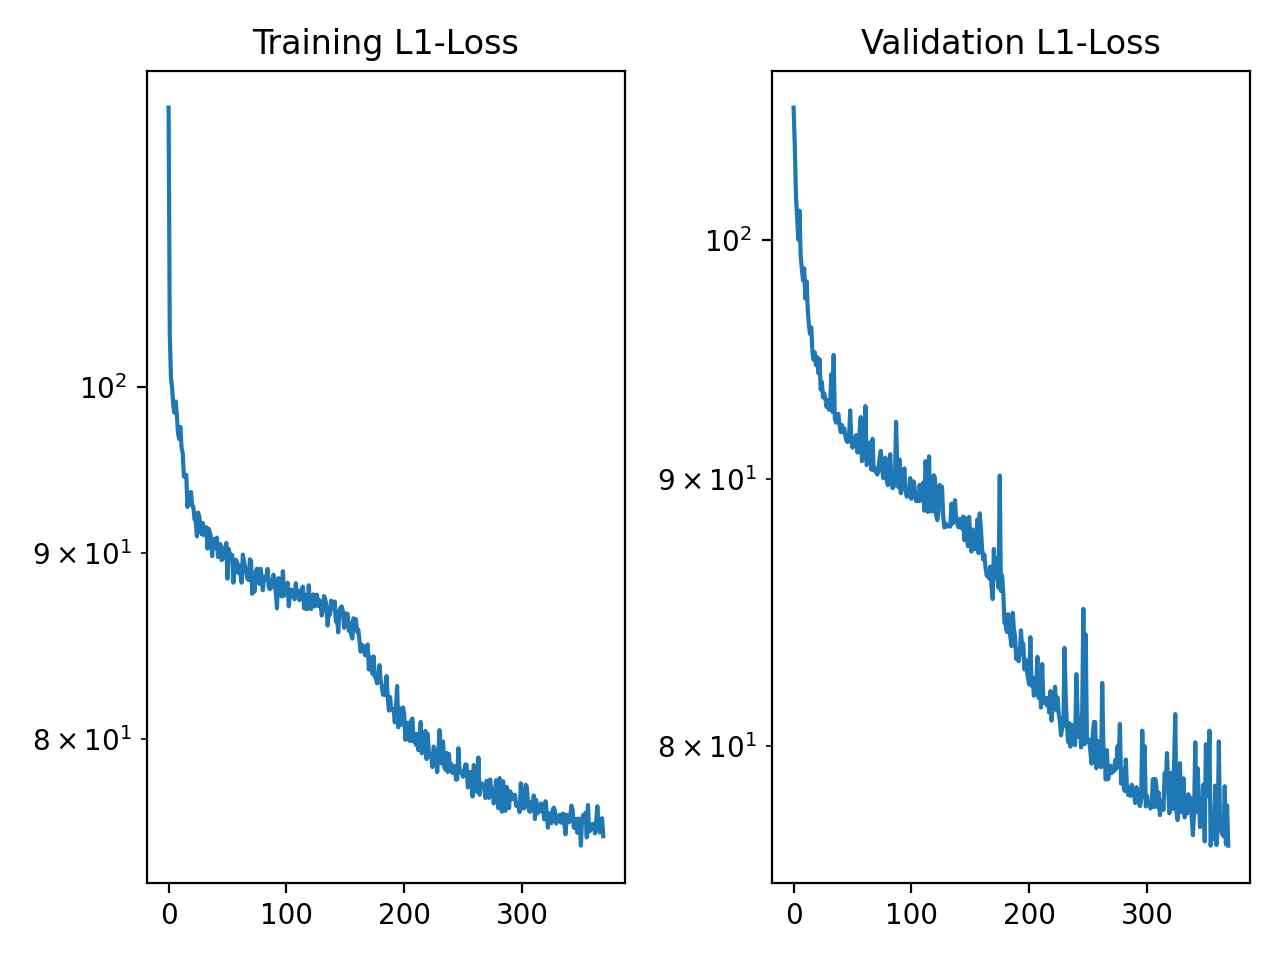
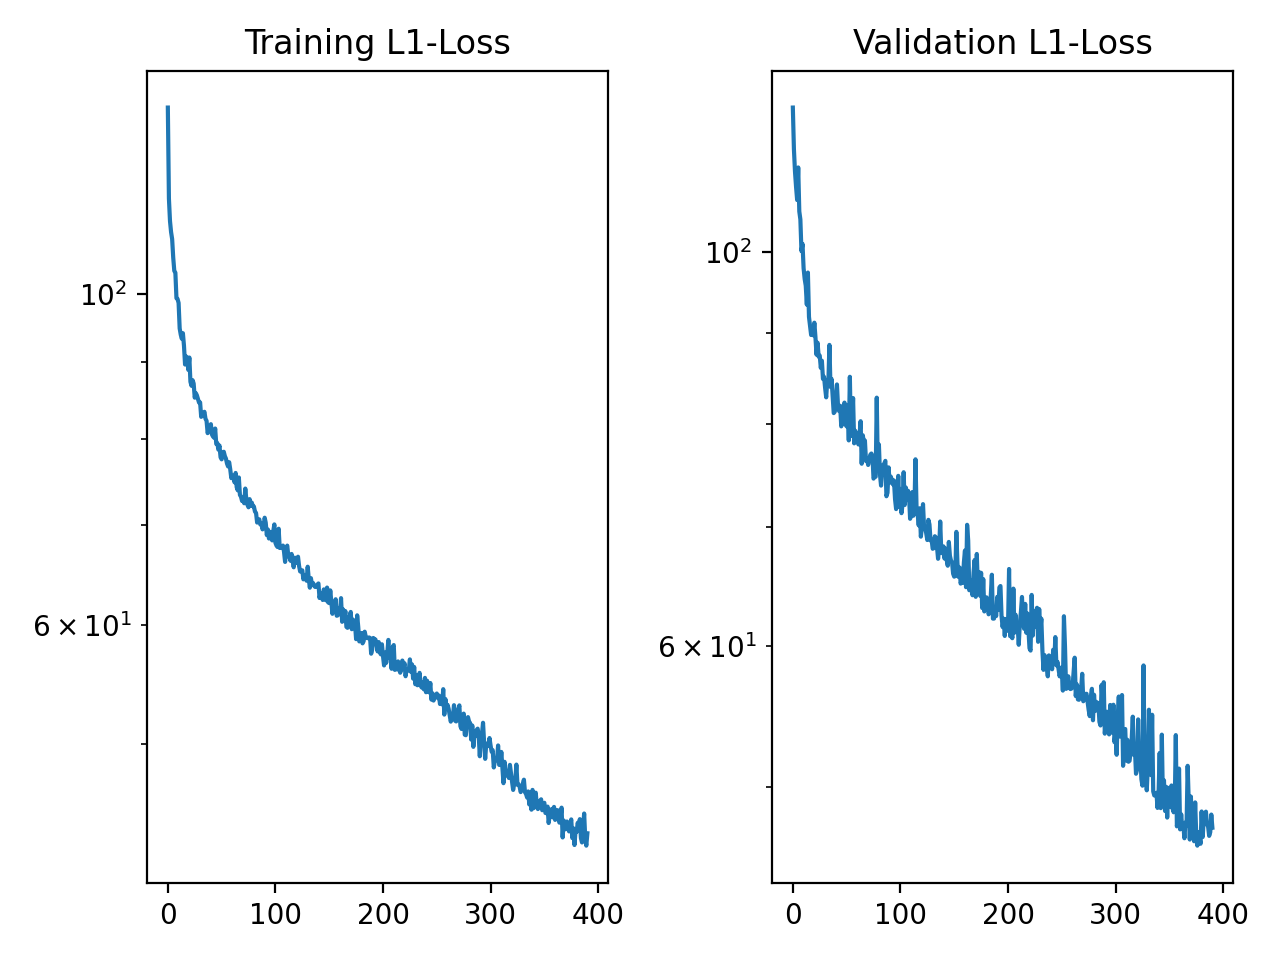
bigger gnn model trained

diff --git a/run_gnn.py b/run_gnn.py
@@ -13,13 +13,18 @@ from torch.optim import Adam
 from torchinfo import summary
 
 from torch_geometric.nn import GCN, GCNConv, Sequential, GATConv
+from torch_geometric.profile import get_model_size, count_parameters
 
 class GCNModel(nn.Module):
     def __init__(self, num_node_features=4):
         super().__init__()
-        self.conv1 = GCNConv(num_node_features, 128) 
-        self.conv2 = GCNConv(128, 64)
-        self.conv3 = GCNConv(64, 1)
+        self.conv1 = GCNConv(num_node_features, 512) 
+        self.conv2 = GCNConv(512, 256)
+        self.conv3 = GCNConv(256, 256)
+        self.conv4 = GCNConv(256, 256)
+        self.conv5 = GCNConv(256, 256)
+        self.conv6 = GCNConv(256, 256)
+        self.conv7 = GCNConv(256, 1)
 
     def forward(self, data):
         x, edge_index, edge_weight = data.x, data.edge_index, data.edge_weight
@@ -29,6 +34,14 @@ class GCNModel(nn.Module):
         x = self.conv2(x, edge_index, edge_weight)
         x = x.relu() 
         x = self.conv3(x, edge_index, edge_weight)
+        x = x.relu() 
+        x = self.conv4(x, edge_index, edge_weight)
+        x = x.relu() 
+        x = self.conv5(x, edge_index, edge_weight)
+        x = x.relu() 
+        x = self.conv6(x, edge_index, edge_weight)
+        x = x.relu() 
+        x = self.conv7(x, edge_index, edge_weight)
         return x
 
 if "cuda" in device and not torch.cuda.is_available():
@@ -52,6 +65,9 @@ optimizer = Adam(model.parameters(), lr=lr)
 earlystopper = EarlyStopper(limit=config_baseline["earlystop_limit"])
 
 train_history = {"train_loss" : [], "val_loss" : []}
+
+print(f"Model size: {get_model_size(model)/2**20:.2f} MB")
+print(f"Parameters: {count_parameters(model)}")
 
 for epoch in range(epochs):
     train_losses = []
